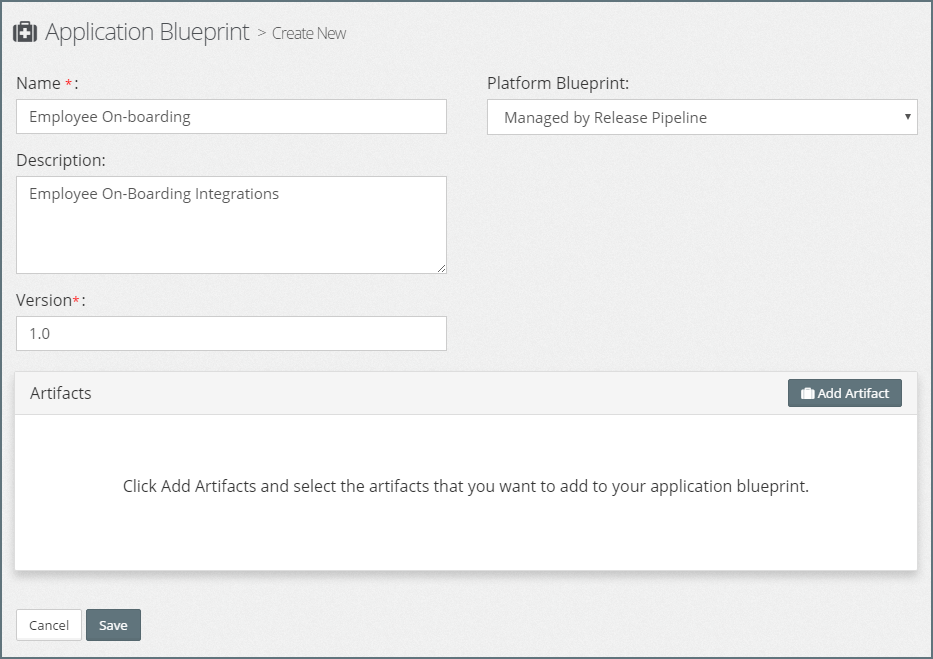
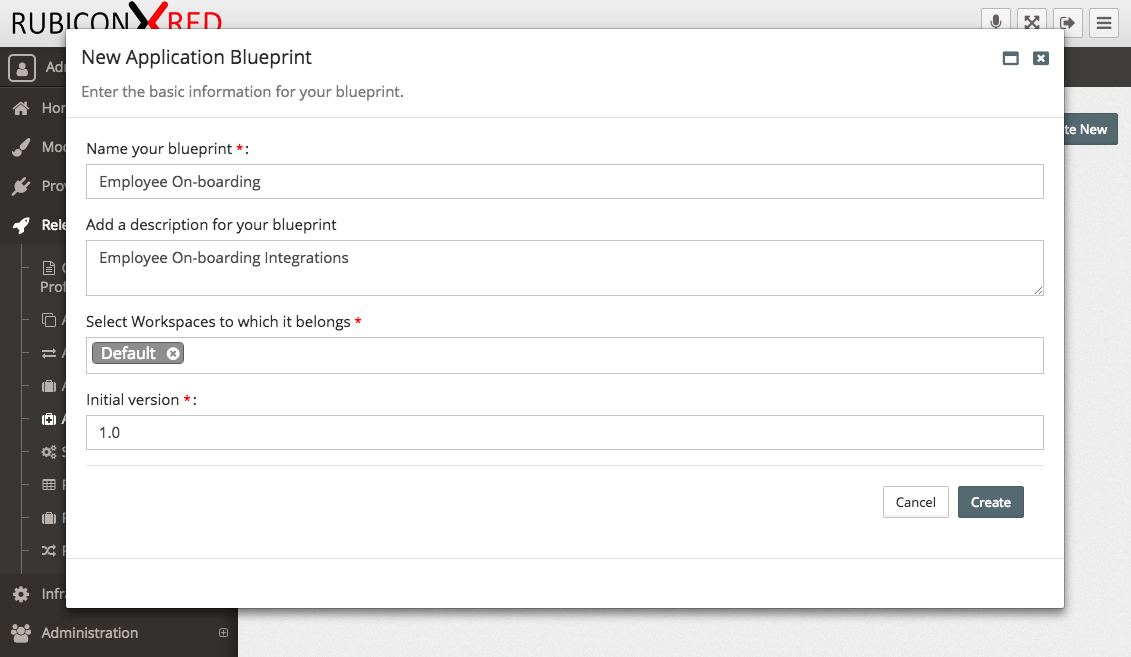
Updated Application Blueprint section for UI changes as part of 5.9.0 release

Changed region(s): [[0.0, 0.0, 1.0, 1.0], [0.5284, 0.1218, 0.7771, 0.2131]]

diff --git a/deploy/application/blueprints/README.md b/deploy/application/blueprints/README.md
@@ -12,7 +12,7 @@ By default, MyST will display the list of Application Blueprints using the `Card
 In the list view, we are able to filter the list by typing part of the Application Blueprint name in the `Name` filter (outlined above in red).
 
 ### Create Application Blueprint
-Click `+ Create New`, this will open the **Application Blueprint** dialogue. Here we need to specify the following values:
+Click `+ Create New`, this will open the **Application Blueprint** dialog. Here we need to specify the following values:
 
 ![](img/applicationBlueprintCreate.png)
 
@@ -20,9 +20,9 @@ Click `+ Create New`, this will open the **Application Blueprint** dialogue. Her
 * **Description** - A longer description of the Application Blueprint
 * **Version** - Specifies the initial version of the Application Blueprint. See Application Blueprint versioning for further details.
 
-![](img/applicationBlueprintCreate.png)
+![](img/applicationBlueprintAfterCreate.png)
 
-Next, we need to add the required artifacts to our application blueprint. Click on `Add Artifact`, this will open the `Add Artifacts` window, which by default will list all artifacts available.
+Next, we need to add the required artifacts to our application blueprint. Click on the `+` icon next to `Artifacts`, this will open the `Add Artifacts` window, which by default will list all artifacts available.
 
 ![](img/applicationBlueprintAddArtifacts.png)
 
@@ -40,9 +40,11 @@ Once happy with the selection click `Add`. This will return us to our Applicatio
 
 ![](img/applicationBlueprintCreateWithArtifacts.png)
 
-For each artifact selected, we need to specify 
-* **Version** - This is the artifact binary version. 
+For each artifact selected, we need to specify
+* **Version** - This is the artifact binary version.
 * **Build No** - The build number of the artifact. Notice it defaults to the LATEST build number. If we want to lock the artifact down to a specific build, we can select a specific Build number.
+
+Optionally, we can order the artifacts if we require them to be deployed in a certain order.
 
 Once we are happy with the content of our Application Blueprint, click `Save`.
 
@@ -51,36 +53,37 @@ Over the Application Lifecycle, we can have multiple **versions** of an Applicat
 
 Each time we edit the artifacts within an Application Blueprint Version, or a new build of an artifact contained within an Application Blueprint is published, MyST automatically creates a new revision. These revisions are tracked through the Release Pipeline so we can determine exactly what is deployed into each environment at any point in time.
 
-To edit an Application Blueprint, go to the list view, click on the `Actions` drop-down for the corresponding Application Blueprint, and select `Open`. This will open the Application Blueprint editor. 
+To edit an Application Blueprint, go to the list view, click on the `Actions` drop-down for the corresponding Application Blueprint, and select `Open`. This will open the Application Blueprint editor.
 
 ![](img/applicationBlueprintEdit.png)
 
-When we open an Application Blueprint, the editor defaults to the latest version of the Application Blueprint. We can select a different version from the `Version` drop-down if required.
+When we open an Application Blueprint, the editor defaults to the latest version of the Application Blueprint. We can select `View` next to a different version to change to an earlier version.
 
 Within the editor we can update the Application Blueprint **Name** and **Description**; it should be noted that these are held at the Application Blueprint level, not at the version level, meaning any changes to these values will be reflected across all versions of the Application Blueprint.
 
 We can also add, delete or edit the list of artifacts contained within an Application Blueprint. These changes are version specific and will result in a new revision of the Application Blueprint.
 
-#### Create New Application Blueprint Version
-To create a new version of an Application Blueprint, we need to open an existing version of the Application Blueprint. 
+#### Create New Application Blueprint Version from Existing
+To create a new version of an Application Blueprint, we need to open an existing version of the Application Blueprint.
 
-Select the option `Save as new version`. MyST will prompt us to provide the new version number for the Application Blueprint. Once entered, click `Save`.
+Next we need to click on a previous version that we wish to base our new version from and select `Clone` from the available `Actions`. MyST will prompt us to provide the new version number for the Application Blueprint. Once entered, click `Create`.
+
+![](img/applicationBlueprintClone.png)
 
 #### Delete Application Blueprint Version
 We can delete unpublished Application Blueprint versions which are not included within a Release Pipeline.
 
-To delete a specific version of an Application Blueprint, open it in the Application Blueprint editor, select the version we wish to delete, and select the `Delete Version` option.
+To delete a specific version of an Application Blueprint, open it in the Application Blueprint editor, and select `Delete` from the available `Actions` next to the version you wish to delete.
+
+![](img/applicationBlueprintDelete.png)
 
 MyST will prompt us with the message, `You are about to delete this version permanently. OK to proceed?`. Click `Yes` to continue.
 
 ### Delete Application Blueprint
 We can delete unpublished Application Blueprints as long as none of its versions are included within a Release Pipeline.
 
-To delete an Application Blueprint, go to the list view, click on the `Actions` drop-down for the corresponding Application Blueprint, and select `Delete`. 
+To delete an Application Blueprint, go to the list view, click on the `Actions` drop-down for the corresponding Application Blueprint, and select `Delete`.
 
 MyST will prompt us with the message `Do you want to delete this application blueprint?`. Click `Yes` to continue.
 
-> When we delete an Application Blueprint, **ALL** versions of the Application Blueprint will be deleted. 
-
-
-
+> When we delete an Application Blueprint, **ALL** versions of the Application Blueprint will be deleted.
